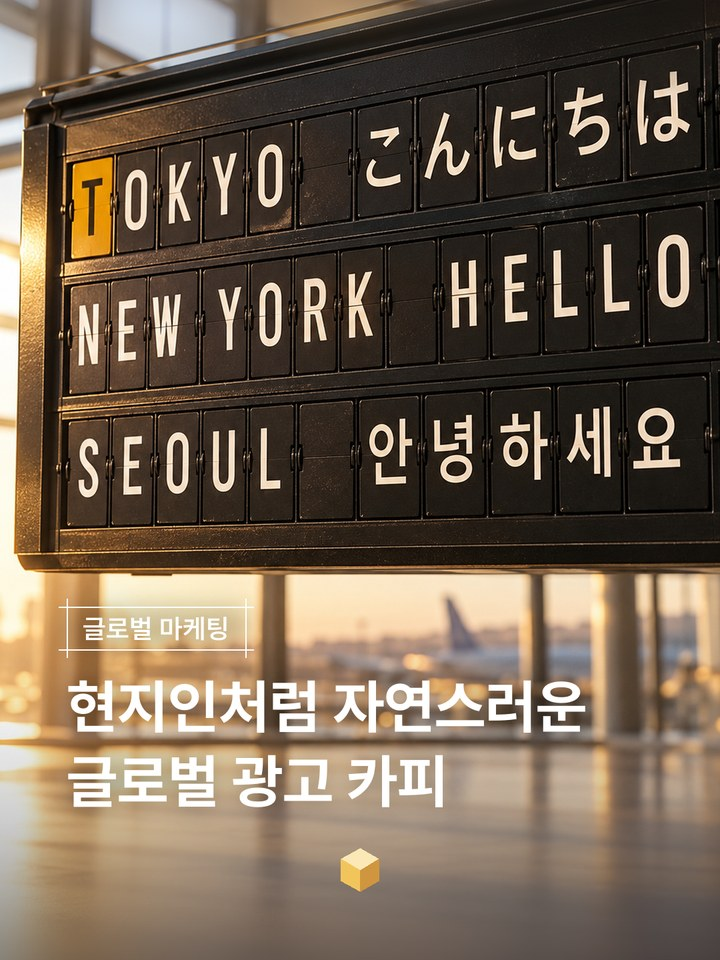
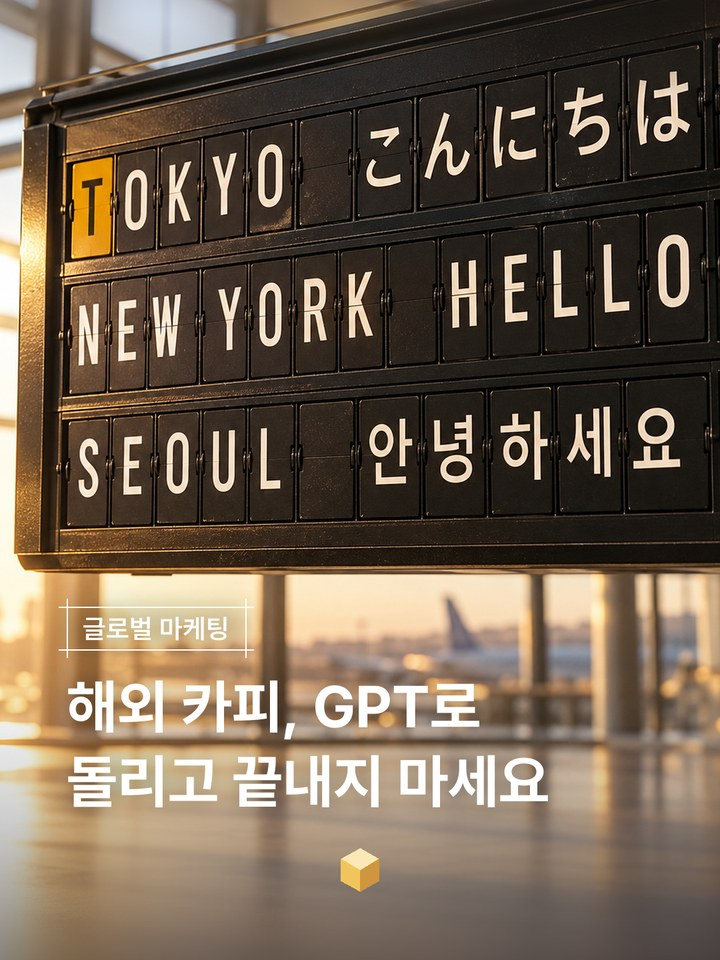
EP.12 제목 C안: 해외 카피, GPT로 돌리고 끝내지 마세요 (커버 · 목록 카드 · 리드)

Changed region(s): [[0.0917, 0.6875, 0.825, 0.8438]]

diff --git a/ep/12/index.html b/ep/12/index.html
@@ -3,9 +3,9 @@
 <head>
 <meta charset="utf-8">
 <meta name="viewport" content="width=device-width, initial-scale=1">
-<title>EP.12 현지인처럼 자연스러운 글로벌 광고 카피 · 이거 모르는 마케터 없게 해주세요</title>
-<meta name="description" content="일본어를 몰라도 일본 광고 카피를 자연스럽게. 그냥 GPT로 돌리면 생기는 오류, 큐텐 재팬 리뷰로 소비자 말투를 뽑아 카피 쓰고 검수하는 법, 리뷰 모으는 법과 프롬프트 3개.">
-<meta property="og:title" content="EP.12 현지인처럼 자연스러운 글로벌 광고 카피">
+<title>EP.12 해외 카피, GPT로 돌리고 끝내지 마세요 · 이거 모르는 마케터 없게 해주세요</title>
+<meta name="description" content="일본 카피, GPT로 돌리고 끝내셨나요? 일본인 듣기에 어색한 말이 섞이고, 자주 쓰는 표현은 빠질 수 있어요. 그냥 GPT로 돌리면 생기는 오류, 큐텐 재팬 리뷰로 소비자 말투를 뽑아 카피 쓰고 검수하는 법, 리뷰 모으는 법과 프롬프트 3개.">
+<meta property="og:title" content="EP.12 해외 카피, GPT로 돌리고 끝내지 마세요">
 <meta property="og:description" content="정답은 리뷰. 리뷰 모으는 법 + 표현 세기 · 카피 · 검수 프롬프트.">
 <meta property="og:image" content="https://goofee-9p.github.io/ai-marketing-honey/assets/img/og.jpg">
 <link rel="icon" type="image/svg+xml" href="../../assets/img/logo.svg">
@@ -23,8 +23,8 @@
 
   <div class="hero">
     <span class="chip">EP.12 · 글로벌 마케팅</span>
-    <h1>현지인처럼 자연스러운<br><span class="hl">글로벌 광고 카피</span></h1>
-    <p class="lead">일본어를 한 글자도 몰라도, 일본 소비자가 실제로 쓰는 말은 찾을 수 있어요. 큐텐 재팬 리뷰를 모아 AI로 표현을 세고, 그 말로 카피를 쓰고, 올리기 전에 검수까지 해 봤어요.</p>
+    <h1>해외 카피, GPT로<br><span class="hl">돌리고 끝내지 마세요</span></h1>
+    <p class="lead">GPT로 돌린 일본 카피, 문법은 맞아도 일본인 듣기엔 어색할 수 있어요. 일본어를 한 글자도 몰라도, 일본 소비자가 실제로 쓰는 말은 찾을 수 있어요. 큐텐 재팬 리뷰를 모아 AI로 표현을 세고, 그 말로 카피를 쓰고, 올리기 전에 검수까지 해 봤어요.</p>
     <div class="meta"><span class="chip ghost">리뷰 모으는 법</span><span class="chip ghost">프롬프트 3개</span><span class="chip ghost">검수 표</span></div>
   </div>
 

diff --git a/index.html b/index.html
@@ -32,7 +32,7 @@
     <div class="eps">
       <div class="ep soon" aria-label="EP.12 곧 공개">
         <img src="assets/img/ep12/cover_34.jpg" alt="EP.12 커버">
-        <div><div class="no">EP.12</div><div class="t">현지인처럼 자연스러운 글로벌 광고 카피</div><div class="d">그냥 GPT로 돌리면 생기는 오류, 정답은 리뷰. 리뷰 모으는 법 + 프롬프트 3개 + 검수 표.</div></div>
+        <div><div class="no">EP.12</div><div class="t">해외 카피, GPT로 돌리고 끝내지 마세요</div><div class="d">그냥 GPT로 돌리면 생기는 오류, 정답은 리뷰. 리뷰 모으는 법 + 프롬프트 3개 + 검수 표.</div></div>
         <span class="badge">Soon!</span>
       </div>
       <div class="ep soon" aria-label="EP.11 곧 공개">

diff --git a/README.md b/README.md
@@ -11,7 +11,7 @@
 - EP.05 포토샵 구독 중인 마케터, 무료로 바꾸는 법(PhotoCraft · Codex + Claude) → `ep/05/`
 - EP.07 Alt+Tab 누르는 마케터 없게 해주세요(연속 붙여넣기 툴) → `ep/07/`
 - EP.08 Anthropic 마케터는 어떻게 일할까요?(공식 사례 · 요청문 전문) → `ep/08/`
-- EP.12 현지인처럼 자연스러운 글로벌 광고 카피(리뷰로 소비자 말투 찾기 · 검수) → `ep/12/`
+- EP.12 해외 카피, GPT로 돌리고 끝내지 마세요(리뷰로 소비자 말투 찾기 · 검수) → `ep/12/`
 - EP.06 마케터 몸값 두 배 올려주는 클로드 스킬 · 무료 마케팅 스킬 7개 → `ep/06/`
 
 ## 구조
